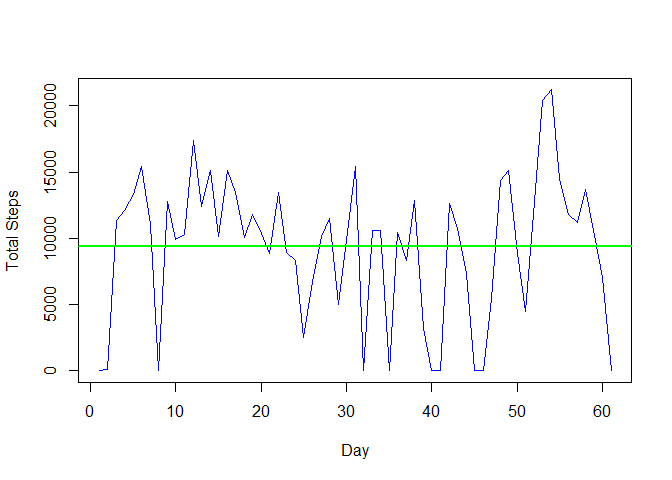
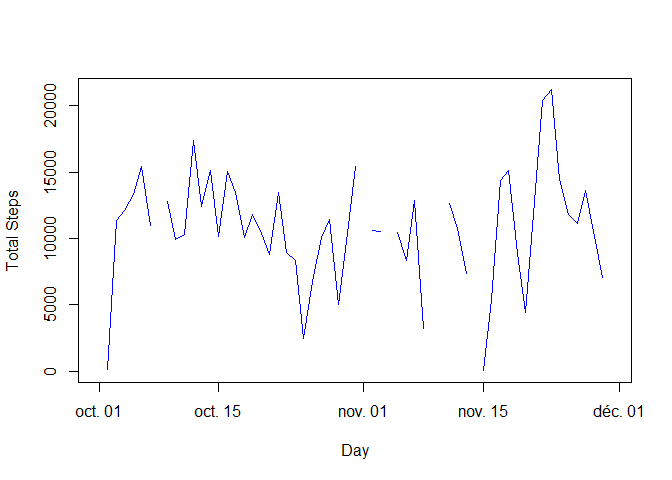
Last commit

diff --git a/PA1_template.html b/PA1_template.html
@@ -122,6 +122,7 @@ $(document).ready(function () {
 <div id="loading-and-preprocessing-the-data" class="section level2">
 <h2>Loading and preprocessing the data</h2>
 <pre class="r"><code># Some initialisations. The initial file is a zip provided in the repo
+library(lattice)
 InDirectory &lt;- &quot;Z:/Professionnel/Cours/repos/RepData_PeerAssessment1&quot;
 ZipFile &lt;- &quot;activity.zip&quot;
 FullZip &lt;- paste(InDirectory,&quot;/&quot;, ZipFile, sep=&quot;&quot;)
@@ -130,23 +131,69 @@ FullCSV &lt;- paste(InDirectory,&quot;/&quot;, CSVFile, sep=&quot;&quot;)
 # Unzip the file
 unzip(FullZip, exdir=InDirectory)
 # Read the CSV in data
-data&lt;-read.csv(FullCSV)</code></pre>
+data&lt;-read.csv(FullCSV,colClasses = c(&quot;integer&quot;, &quot;Date&quot;, &quot;integer&quot;))</code></pre>
 </div>
-<div id="what-is-mean-total-number-of-steps-taken-per-day" class="section level2">
-<h2>What is mean total number of steps taken per day?</h2>
-<pre class="r"><code>PerDay &lt;-with(data, tapply(steps, date, sum, na.rm=TRUE))
-plot(PerDay, type=&quot;l&quot;, col=&quot;blue&quot;, xlab= &quot;Day&quot;, ylab=&quot;Total Steps&quot;)
-abline(h=mean(PerDay), lwd=2, col=&quot;green&quot;)</code></pre>
[1 lines of base64/hex data omitted]
+<div id="what-is-the-mean-total-number-of-steps-taken-per-day" class="section level2">
+<h2>What is the mean total number of steps taken per day?</h2>
+<pre class="r"><code>PerDay &lt;- aggregate(steps~date, data=data, sum, na.action=NULL)
+DailyMean &lt;- mean(PerDay$steps, na.rm=TRUE)
+DailyMedian &lt;- median(PerDay$steps, na.rm=TRUE)
+cat(&quot; Daily mean number of steps: &quot;,DailyMean, &quot;\n&quot;, &quot;Daily median number of steps: &quot;,DailyMedian)</code></pre>
+<pre><code>##  Daily mean number of steps:  10766.19 
+##  Daily median number of steps:  10765</code></pre>
+<p>The graph displays the daily number of steps as the blue line. The missing values are clearly visible as interruption of the line. 2 lines respectively mark the average and the median, but, as the values are nearly equal, they are undistinguishable.</p>
+<pre class="r"><code>plot(PerDay, type=&quot;l&quot;, col=&quot;blue&quot;, xlab= &quot;Day&quot;, ylab=&quot;Total Steps&quot;)
+abline(h=DailyMean, lwd=2, col=&quot;green&quot;)
+abline(h=DailyMedian, lwd=2, col=&quot;red&quot;)</code></pre>
[1 lines of base64/hex data omitted]
 </div>
 <div id="what-is-the-average-daily-activity-pattern" class="section level2">
 <h2>What is the average daily activity pattern?</h2>
+<pre class="r"><code>PerInterval &lt;- aggregate(steps~interval, data=data, mean)
+plot(PerInterval, type=&quot;l&quot;, col=&quot;blue&quot;, xlab= &quot;Interval&quot;, ylab=&quot;Average Steps&quot;)</code></pre>
[1 lines of base64/hex data omitted]
+<pre class="r"><code>cat(&quot;Maximum Activity interval: &quot;,PerInterval$interval[which.max(PerInterval$steps)])</code></pre>
+<pre><code>## Maximum Activity interval:  835</code></pre>
 </div>
 <div id="imputing-missing-values" class="section level2">
 <h2>Imputing missing values</h2>
+<p>Number of missing values</p>
+<pre class="r"><code>cat(&quot;Nummber of missing values: &quot;, length(data$steps[is.na(data$steps)]))</code></pre>
+<pre><code>## Nummber of missing values:  2304</code></pre>
+<p>Filling the missing values</p>
+<p>We have already calculated the average number of steps for each interval. We calculate the number of steps for each day as well as the average number of steps per day. For the days for which we have no value, we assign the average number of steps per day as total number of steps for the day. We then fill the missing values by assigning the average number of steps for the interval, multiplied by the number of steps for the day and divided by the average number of steps per day.</p>
+<pre class="r"><code># Calculate the daily average
+PerDay$steps[is.na(PerDay$steps)]&lt;-DailyMean
+# Assign the number of steps to the empty intervals
+y&lt;-merge(data[is.na(data$steps), c(&quot;steps&quot;, &quot;date&quot;, &quot;interval&quot;)], PerInterval, by=&quot;interval&quot;)
+y&lt;-y[with(y,order(date, interval)),]
+# Assign the number of steps of the day
+z&lt;-merge(y[, c(&quot;steps.y&quot;, &quot;date&quot;, &quot;interval&quot;)], PerDay, by=&quot;date&quot;)
+# Copy the initial data to a new frame
+imputteddata&lt;-data
+# Assign the calculated values to the empty intervals
+imputteddata$steps[is.na(data$steps)]&lt;-z$steps.y*z$steps/DailyMean
+PerImputedDay &lt;- aggregate(steps~date, data=imputteddata, sum, na.action=NULL)
+DailyImputedMean &lt;- mean(PerImputedDay$steps)
+DailyImputedMedian &lt;- median(PerImputedDay$steps)
+hist(PerImputedDay$steps, breaks=10, xlab=&quot;Number of steps per day&quot;, main=&quot;Histogram of number of steps per day&quot;)</code></pre>
[1 lines of base64/hex data omitted]
+<pre class="r"><code>cat(&quot; Daily mean number of steps (after imputing): &quot;, DailyImputedMean, &quot;\n&quot;, &quot;Daily median number of steps (after imputing): &quot;, DailyImputedMedian)</code></pre>
+<pre><code>##  Daily mean number of steps (after imputing):  10766.19 
+##  Daily median number of steps (after imputing):  10766.19</code></pre>
+<p>Imputing data has not changed the mean. This was expected, as the imputing strategy is based on means and is devised to keep is unchanged. The median is only very slightly modified.</p>
 </div>
 <div id="are-there-differences-in-activity-patterns-between-weekdays-and-weekends" class="section level2">
 <h2>Are there differences in activity patterns between weekdays and weekends?</h2>
+<pre class="r"><code># define weekend (in my French locale)
+weekend&lt;-c(&quot;samedi&quot;, &quot;dimanche&quot;)
+# create a new factor column with the split weekend/weekday
+imputteddata$day&lt;-factor((weekdays(imputteddata$date) %in% weekend), levels=c(TRUE, FALSE), labels=c('weekend', 'weekday'))
+PerWeekday &lt;- aggregate(steps~interval+day, data=imputteddata, mean)
+xyplot(steps~interval|day, PerWeekday, type=&quot;l&quot;, layout=c(1,2))</code></pre>
[1 lines of base64/hex data omitted]
+<p>The activity on weekday peeks around 08:35 and is significanly lower after about 09:30.<br />
+During weekends, the activity is shifted later and spread more evenly during the day.</p>
 </div>
 
 

diff --git a/PA1_template.md b/PA1_template.md
@@ -6,6 +6,7 @@
 
 ```r
 # Some initialisations. The initial file is a zip provided in the repo
+library(lattice)
 InDirectory <- "Z:/Professionnel/Cours/repos/RepData_PeerAssessment1"
 ZipFile <- "activity.zip"
 FullZip <- paste(InDirectory,"/", ZipFile, sep="")
@@ -14,25 +15,116 @@ FullCSV <- paste(InDirectory,"/", CSVFile, sep="")
 # Unzip the file
 unzip(FullZip, exdir=InDirectory)
 # Read the CSV in data
-data<-read.csv(FullCSV)
+data<-read.csv(FullCSV,colClasses = c("integer", "Date", "integer"))
 ```
 
-## What is mean total number of steps taken per day?
+## What is the mean total number of steps taken per day?
 
 ```r
-PerDay <-with(data, tapply(steps, date, sum, na.rm=TRUE))
-plot(PerDay, type="l", col="blue", xlab= "Day", ylab="Total Steps")
-abline(h=mean(PerDay), lwd=2, col="green")
+PerDay <- aggregate(steps~date, data=data, sum, na.action=NULL)
+DailyMean <- mean(PerDay$steps, na.rm=TRUE)
+DailyMedian <- median(PerDay$steps, na.rm=TRUE)
+cat(" Daily mean number of steps: ",DailyMean, "\n", "Daily median number of steps: ",DailyMedian)
 ```
 
-![](PA1_template_files/figure-html/unnamed-chunk-2-1.png)<!-- -->
+```
+##  Daily mean number of steps:  10766.19 
+##  Daily median number of steps:  10765
+```
+The graph displays the daily number of steps as the blue line. The missing values are clearly visible as interruption of the line.
+2 lines respectively mark the average and the median, but, as the values are nearly equal, they are undistinguishable.
+
+
+```r
+plot(PerDay, type="l", col="blue", xlab= "Day", ylab="Total Steps")
+abline(h=DailyMean, lwd=2, col="green")
+abline(h=DailyMedian, lwd=2, col="red")
+```
+
+![](PA1_template_files/figure-html/unnamed-chunk-3-1.png)<!-- -->
 
 ## What is the average daily activity pattern?
 
 
+```r
+PerInterval <- aggregate(steps~interval, data=data, mean)
+plot(PerInterval, type="l", col="blue", xlab= "Interval", ylab="Average Steps")
+```
+
+![](PA1_template_files/figure-html/unnamed-chunk-4-1.png)<!-- -->
+
+```r
+cat("Maximum Activity interval: ",PerInterval$interval[which.max(PerInterval$steps)])
+```
+
+```
+## Maximum Activity interval:  835
+```
 
 ## Imputing missing values
 
+Number of missing values
 
+```r
+cat("Nummber of missing values: ", length(data$steps[is.na(data$steps)]))
+```
+
+```
+## Nummber of missing values:  2304
+```
+
+Filling the missing values
+
+We have already calculated the average number of steps for each interval. We calculate the number of steps for each day as well as the average number of steps per day. 
+For the days for which we have no value, we assign the average number of steps per day as total number of steps for the day.
+We then fill the missing values by assigning the average number of steps for the interval, multiplied by the number of steps for the day and divided by the average number of steps per day.
+
+
+
+```r
+# Calculate the daily average
+PerDay$steps[is.na(PerDay$steps)]<-DailyMean
+# Assign the number of steps to the empty intervals
+y<-merge(data[is.na(data$steps), c("steps", "date", "interval")], PerInterval, by="interval")
+y<-y[with(y,order(date, interval)),]
+# Assign the number of steps of the day
+z<-merge(y[, c("steps.y", "date", "interval")], PerDay, by="date")
+# Copy the initial data to a new frame
+imputteddata<-data
+# Assign the calculated values to the empty intervals
+imputteddata$steps[is.na(data$steps)]<-z$steps.y*z$steps/DailyMean
+PerImputedDay <- aggregate(steps~date, data=imputteddata, sum, na.action=NULL)
+DailyImputedMean <- mean(PerImputedDay$steps)
+DailyImputedMedian <- median(PerImputedDay$steps)
+hist(PerImputedDay$steps, breaks=10, xlab="Number of steps per day", main="Histogram of number of steps per day")
+```
+
+![](PA1_template_files/figure-html/unnamed-chunk-6-1.png)<!-- -->
+
+```r
+cat(" Daily mean number of steps (after imputing): ", DailyImputedMean, "\n", "Daily median number of steps (after imputing): ", DailyImputedMedian)
+```
+
+```
+##  Daily mean number of steps (after imputing):  10766.19 
+##  Daily median number of steps (after imputing):  10766.19
+```
+
+Imputing data has not changed the mean. This was expected, as the imputing strategy is based on means and is devised to keep is unchanged. The median is only very slightly modified.
 
 ## Are there differences in activity patterns between weekdays and weekends?
+
+
+```r
+# define weekend (in my French locale)
+weekend<-c("samedi", "dimanche")
+# create a new factor column with the split weekend/weekday
+imputteddata$day<-factor((weekdays(imputteddata$date) %in% weekend), levels=c(TRUE, FALSE), labels=c('weekend', 'weekday'))
+PerWeekday <- aggregate(steps~interval+day, data=imputteddata, mean)
+xyplot(steps~interval|day, PerWeekday, type="l", layout=c(1,2))
+```
+
+![](PA1_template_files/figure-html/unnamed-chunk-7-1.png)<!-- -->
+
+The activity on weekday peeks around 08:35 and is significanly lower after about 09:30.  
+During weekends, the activity is shifted later and spread more evenly during the day.
